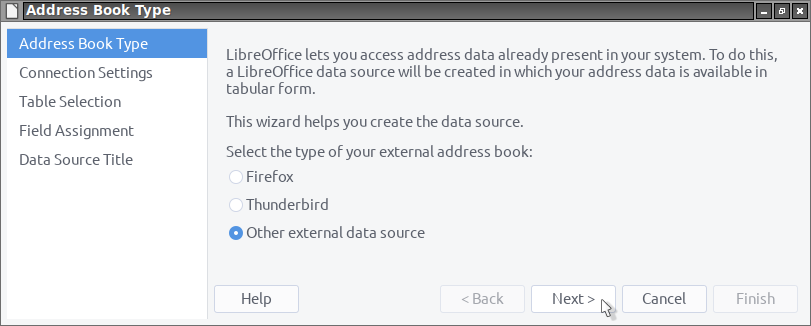
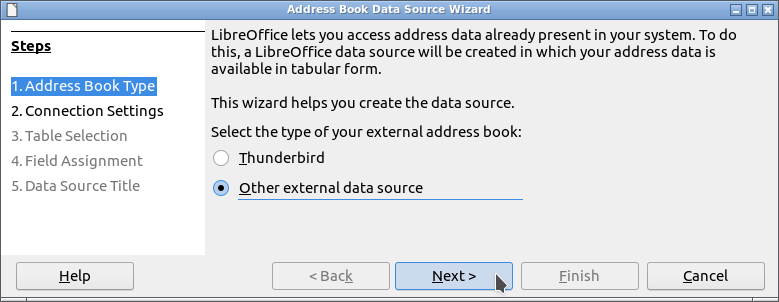
README*.md update

diff --git a/README_fr.md b/README_fr.md
@@ -118,6 +118,25 @@ Après avoir autorisé l'application [OAuth2OOo][16] à accéder à vos contacts
 
 ![gContactOOo screenshot 6][31]
 
+Si la connexion a été etablie, vous pouvez terminer cet assistant avec le bouton Terminer
+
+![gContactOOo screenshot 7][32]
+
+Si nécessaire il est possible de renommer les noms des colonnes de la source de données à l'aide du bouton: Assignation de champ
+Veuillez poursuivre cet assistant par le bouton: Suivant
+
+![gContactOOo screenshot 8][33]
+
+Il faut nommer et créer un fichier odb. Pour cela vous devez:
+- Décocher la case: Intégrer cette définition du carnet d'adresses dans le document actuel.
+- Nommé le fichier odb dans le champ: Emplacement
+
+Il faut également rendre accessible ce fichier odb. Pour cela vous devez:
+- Cocher la case: Rendre ce carnet d'adresses accessible à tous les modules de LibreOffice
+- Nommé le carnet d'adresses dans le champ: Nom du carnet d'adresses
+
+![gContactOOo screenshot 9][34]
+
 Maintenant à vous d'en profiter...
 
 ___
@@ -130,7 +149,7 @@ ___
 
 * LibreOffice 7.4.3.2(x64) - Windows 10(x64) - Python version 3.8.15  - Adoptium JDK Hotspot 11.0.17 (x64) (under Lubuntu 22.04 / VirtualBox 6.1.38)
 
-* **Ne fonctionne pas avec OpenOffice sous Windows** voir [dysfonctionnement 128569][32]. N'ayant aucune solution, je vous encourrage d'installer **LibreOffice**.
+* **Ne fonctionne pas avec OpenOffice sous Windows** voir [dysfonctionnement 128569][35]. N'ayant aucune solution, je vous encourrage d'installer **LibreOffice**.
 
 Je vous encourage en cas de problème :confused:  
 de créer un [dysfonctionnement][9]  
@@ -144,7 +163,7 @@ ___
 
 Cette extension a été écrite afin de rendre utilisables dans un logiciel libre (LibreOffice ou OpenOffice) vos données personnelles (votre carnet d'adresses) stockées dans votre téléphone Android.
 
-Avec l'extension [eMailerOOo][33], elle peut être la source de données pour des [publipostages][34] par courriel (email), à vos correspondants contenus dans votre téléphone.
+Avec l'extension [eMailerOOo][36], elle peut être la source de données pour des [publipostages][37] par courriel (email), à vos correspondants contenus dans votre téléphone.
 
 Elle vous donnera accès à un système d'information que seules les grandes entreprises sont capables, aujourd'hui, de mettre en œuvre.
 
@@ -152,11 +171,11 @@ Elle vous donnera accès à un système d'information que seules les grandes ent
 
 - Intégration et utilisation de la nouvelle version de Hsqldb 2.5.1.
 
-- Ecriture d'une nouvelle interface [Replicator][35], lancé en arrière-plan (python Thread) responsable de:
+- Ecriture d'une nouvelle interface [Replicator][38], lancé en arrière-plan (python Thread) responsable de:
 
     - Effectuer les procédures nécessaires lors de la création d'un nouvel utilisateur (Pull initial).
 
-- Ecriture d'une nouvelle interface [DataBase][36], responsable de tous les appels à la base de données.
+- Ecriture d'une nouvelle interface [DataBase][39], responsable de tous les appels à la base de données.
 
 - Beaucoup d'autres correctifs...
 
@@ -168,7 +187,7 @@ Elle vous donnera accès à un système d'information que seules les grandes ent
 
 - L'extension [jdbcDriverOOo][20] fournit désormais le pilote nécessaire pour accéder à la base de données HsqlDB utilisée par gContactOOo.
 
-- Modification du [Replicator][35] afin de:
+- Modification du [Replicator][38] afin de:
 
     - Ouvrir et fermer la base de données à chaque réplication.
     - Se mettre en attente après la dernière fermeture du carnet d'adresses.
@@ -200,6 +219,8 @@ Elle vous donnera accès à un système d'information que seules les grandes ent
 
 - Tout ce qui est bienvenu...
 
+
+
 [1]: <https://prrvchr.github.io/gContactOOo>
 [2]: <https://prrvchr.github.io/gContactOOo/source/gContactOOo/registration/TermsOfUse_fr>
 [3]: <https://prrvchr.github.io/gContactOOo/source/gContactOOo/registration/PrivacyPolicy_fr>
@@ -225,14 +246,17 @@ Elle vous donnera accès à un système d'information que seules les grandes ent
 [23]: <img/gContactOOo.svg#middle>
 [24]: <https://github.com/prrvchr/gContactOOo/releases/latest/download/gContactOOo.oxt>
 [25]: <https://img.shields.io/github/downloads/prrvchr/gContactOOo/latest/total?label=v1.0.3#right>
-[26]: <img/gContactOOo-1.png>
-[27]: <img/gContactOOo-2.png>
-[28]: <img/gContactOOo-3.png>
-[29]: <img/gContactOOo-4.png>
-[30]: <img/gContactOOo-5.png>
-[31]: <img/gContactOOo-6.png>
-[32]: <https://bz.apache.org/ooo/show_bug.cgi?id=128569>
-[33]: <https://prrvchr.github.io/eMailerOOo/README_fr>
-[34]: <https://en.wikipedia.org/wiki/Mail_merge>
-[35]: <https://github.com/prrvchr/gContactOOo/blob/master/uno/lib/uno/addressbook/replicator.py>
-[36]: <https://github.com/prrvchr/gContactOOo/blob/master/uno/lib/uno/addressbook/database.py>
+[26]: <img/gContactOOo-1_fr.png>
+[27]: <img/gContactOOo-2_fr.png>
+[28]: <img/gContactOOo-3_fr.png>
+[29]: <img/gContactOOo-4_fr.png>
+[30]: <img/gContactOOo-5_fr.png>
+[31]: <img/gContactOOo-6_fr.png>
+[32]: <img/gContactOOo-7_fr.png>
+[33]: <img/gContactOOo-8_fr.png>
+[34]: <img/gContactOOo-9_fr.png>
+[35]: <https://bz.apache.org/ooo/show_bug.cgi?id=128569>
+[36]: <https://prrvchr.github.io/eMailerOOo/README_fr>
+[37]: <https://en.wikipedia.org/wiki/Mail_merge>
+[38]: <https://github.com/prrvchr/gContactOOo/blob/master/uno/lib/uno/addressbook/replicator.py>
+[39]: <https://github.com/prrvchr/gContactOOo/blob/master/uno/lib/uno/addressbook/database.py>

diff --git a/README.md b/README.md
@@ -118,6 +118,25 @@ After authorizing the [OAuth2OOo][16] application to access your Contacts, norma
 
 ![gContactOOo screenshot 6][31]
 
+If the connection has been established, you can complete this wizard with the Finish button
+
+![gContactOOo screenshot 7][32]
+
+If necessary it is possible to rename the names of the columns of the data source using the button: Field Assignment
+Please continue this wizard with the button: Next
+
+![gContactOOo screenshot 8][33]
+
+You must name and create an odb file. To do this you must:
+- Uncheck the box: Embed this address book definition in the current document.
+- Named the odb file in the field: Location
+
+This odb file must also be made accessible. To do this you must:
+- Check the box: Make this address book available to all modules in LibreOffice
+- Named the address book in the field: Address book name
+
+![gContactOOo screenshot 9][34]
+
 Have fun...
 
 ___
@@ -233,8 +252,11 @@ It will give you access to an information system that only larges companies are 
 [29]: <img/gContactOOo-4.png>
 [30]: <img/gContactOOo-5.png>
 [31]: <img/gContactOOo-6.png>
-[32]: <https://bz.apache.org/ooo/show_bug.cgi?id=128569>
-[33]: <https://prrvchr.github.io/eMailerOOo>
-[34]: <https://en.wikipedia.org/wiki/Mail_merge>
-[35]: <https://github.com/prrvchr/gContactOOo/blob/master/uno/lib/uno/addressbook/replicator.py>
-[36]: <https://github.com/prrvchr/gContactOOo/blob/master/uno/lib/uno/addressbook/database.py>
+[32]: <img/gContactOOo-7.png>
+[33]: <img/gContactOOo-8.png>
+[34]: <img/gContactOOo-9.png>
+[35]: <https://bz.apache.org/ooo/show_bug.cgi?id=128569>
+[36]: <https://prrvchr.github.io/eMailerOOo>
+[37]: <https://en.wikipedia.org/wiki/Mail_merge>
+[38]: <https://github.com/prrvchr/gContactOOo/blob/master/uno/lib/uno/addressbook/replicator.py>
+[39]: <https://github.com/prrvchr/gContactOOo/blob/master/uno/lib/uno/addressbook/database.py>
